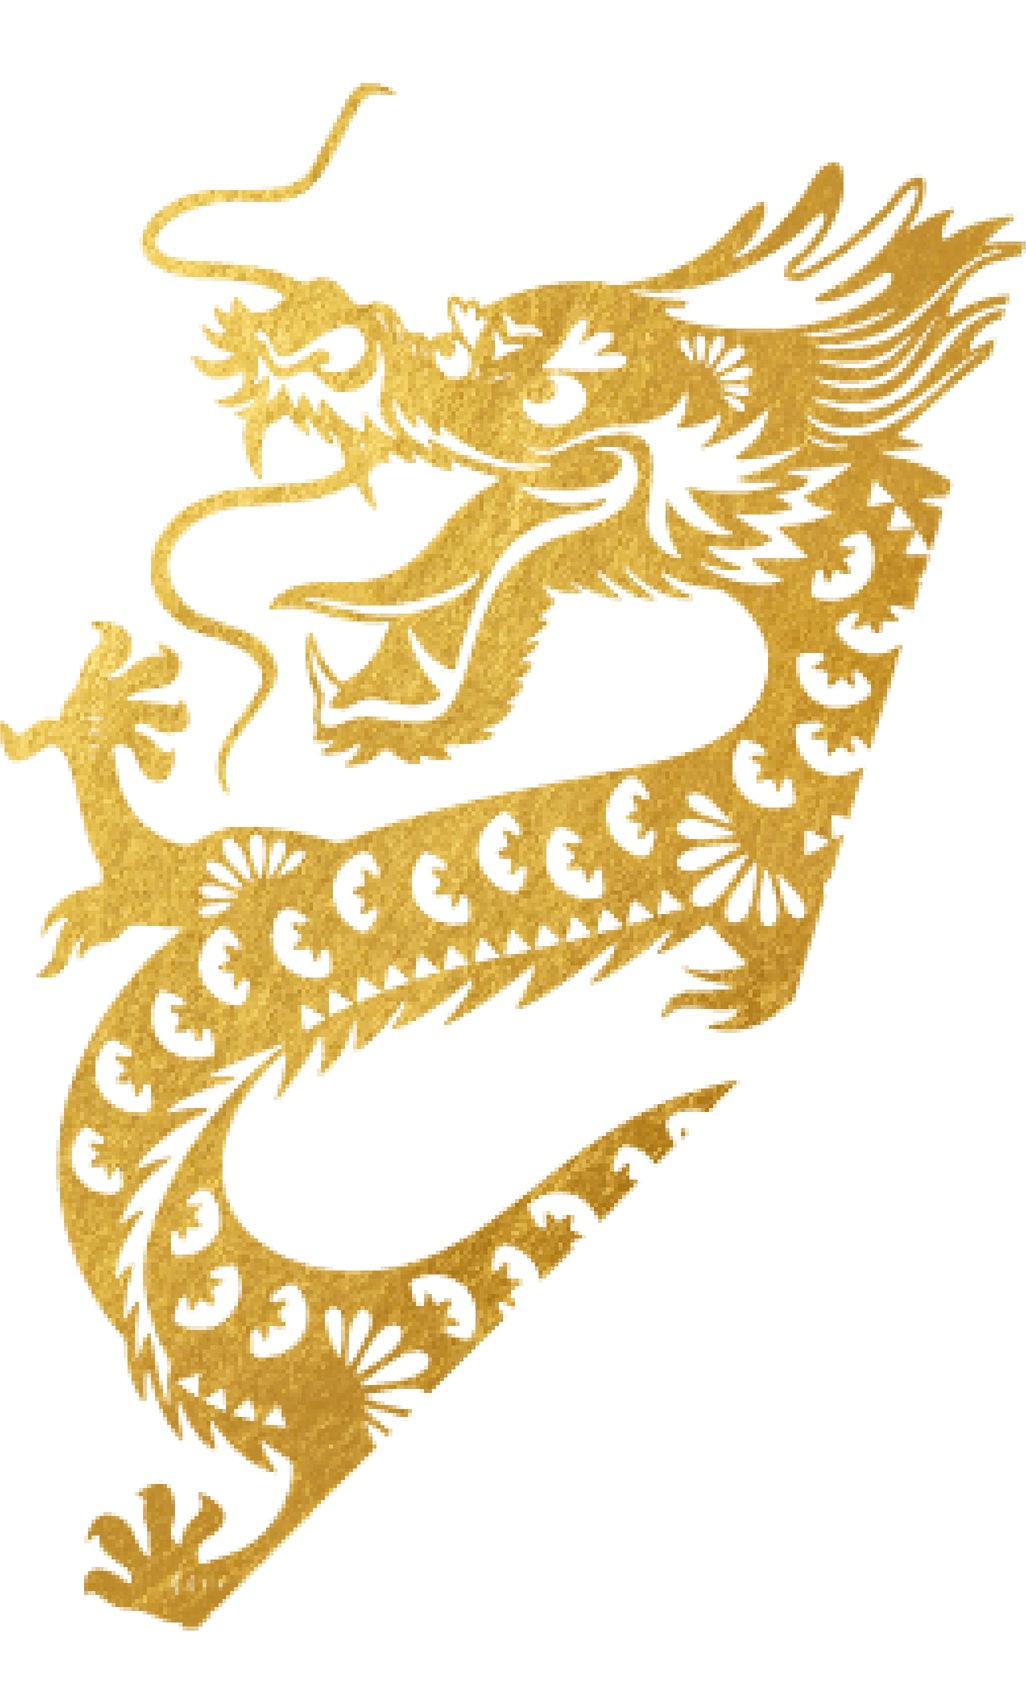
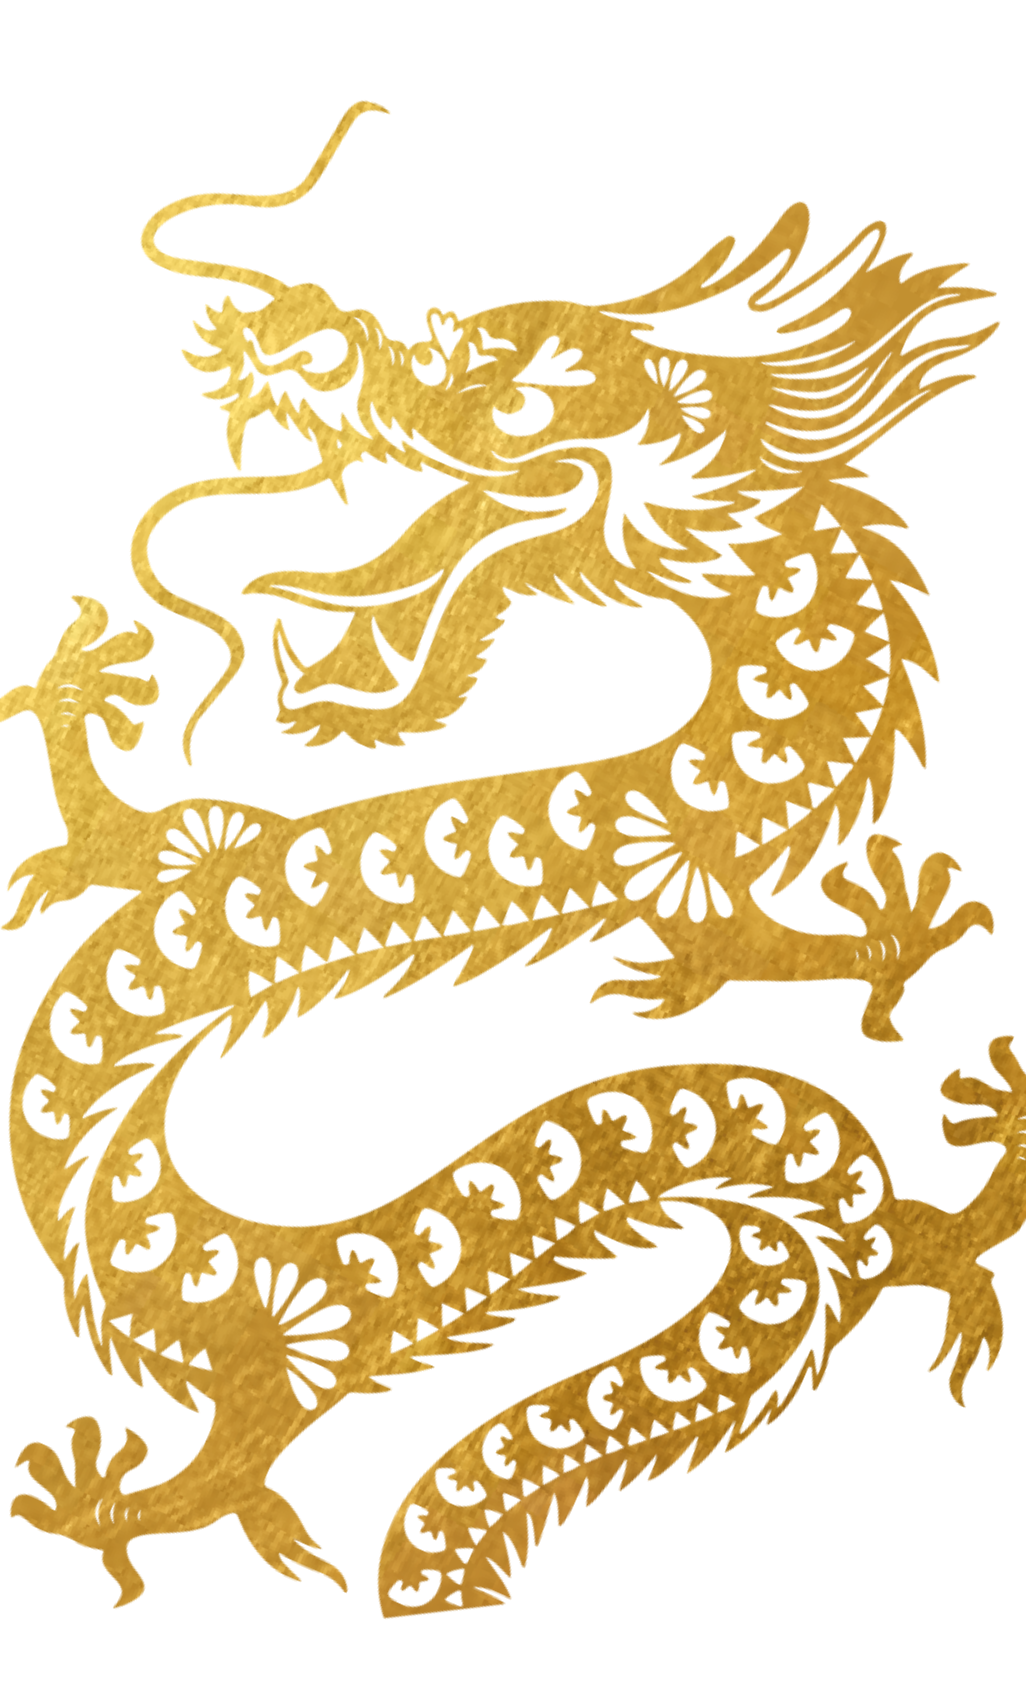
[modify] change dragon

diff --git a/docs/sw.js b/docs/sw.js
@@ -1,1 +1,1 @@
-if(!self.define){let e,i={};const a=(a,s)=>(a=new URL(a+".js",s).href,i[a]||new Promise((i=>{if("document"in self){const e=document.createElement("script");e.src=a,e.onload=i,document.head.appendChild(e)}else e=a,importScripts(a),i()})).then((()=>{let e=i[a];if(!e)throw new Error(`Module ${a} didn’t register its module`);return e})));self.define=(s,n)=>{const r=e||("document"in self?document.currentScript.src:"")||location.href;if(i[r])return;let c={};const d=e=>a(e,r),o={module:{uri:r},exports:c,require:d};i[r]=Promise.all(s.map((e=>o[e]||d(e)))).then((e=>(n(...e),c)))}}define(["./workbox-fa446783"],(function(e){"use strict";self.skipWaiting(),e.clientsClaim(),e.precacheAndRoute([{url:"assets/index-60319aa1.js",revision:null},{url:"assets/index-e0ca7d98.css",revision:null},{url:"index.html",revision:"6f0142afc46f0e07b2d3d71e171b2242"},{url:"registerSW.js",revision:"1872c500de691dce40960bb85481de07"},{url:"321.mp3",revision:"3bd591d610049c259f3768fd35f8ba0f"},{url:"audio-speaker-off.png",revision:"e46a88ab8493f86764cbe64dd250adf5"},{url:"audio-speaker-on.png",revision:"0f68480c86cd9569a7bd660ea0b1abb1"},{url:"bg.mp3",revision:"1939fe9c9d71e53d960f581d068bd9ed"},{url:"click.mp3",revision:"0549e1376c71663510db6425f2b10d4e"},{url:"pwa-logo.png",revision:"ecc5baf4ff30ede170fc950900658b74"},{url:"assets/img/12_14_finished.png",revision:"a870acbf48cc8d64d949abd03ab92052"},{url:"assets/img/ball_light.png",revision:"11ffa497bd4e6f5ba8789b584b464348"},{url:"assets/img/black_bg.png",revision:"2c019e9e6bccf9f989349f8b4902df4d"},{url:"assets/img/charm.png",revision:"7a59770e7caaa60af67a447a67f842f1"},{url:"assets/img/charm_bg.png",revision:"8cbacc76583d1c30f68951fdd04853a2"},{url:"assets/img/charm_shadow.png",revision:"86b80104720873d004d1647e19a723f3"},{url:"assets/img/dragon_right_big.png",revision:"ab83fd69d5b4f3120fda3eeabe7624b5"},{url:"assets/img/dragon_right_small.png",revision:"684a7760bf27b17b2f04fa6dcb6ebe5e"},{url:"assets/img/final_bg.png",revision:"407d758e0a49c25dd1c33995f34a4c5e"},{url:"assets/img/game_ball.png",revision:"deae6db0f7233ab3299a7c1adbca2372"},{url:"assets/img/game_ball_cloud.png",revision:"5c66e37a987089a9a03389eccf4bf39a"},{url:"assets/img/game_ball_infinite.png",revision:"eb7bb876bad1c0e7d6a8a3e12f31939e"},{url:"assets/img/game_ball_shadow.png",revision:"f14fabcca4dcf82a15e244795d04088c"},{url:"assets/img/game_ball_star.png",revision:"adc6fa1f181f27739f247749d7174809"},{url:"assets/img/game_ball_wind.png",revision:"cc1724b3a3a0015b55884a11a5a0156b"},{url:"assets/img/game_bg.png",revision:"266fa85d2f8a6e8577a09583253ad348"},{url:"assets/img/game_count_down_1.png",revision:"f859b94ffa931eb4905349206055dc31"},{url:"assets/img/game_count_down_2.png",revision:"4fd6d3c6a62e7bfd9ae5c13058d5c640"},{url:"assets/img/game_count_down_3.png",revision:"f5cea6cd0ee93bd623e5185a77307eda"},{url:"assets/img/game_frame.png",revision:"d4c0c7479a3e64ad69362b318e416d94"},{url:"assets/img/game_header.png",revision:"28bfb3ca5717aa08a1f29a76af22f076"},{url:"assets/img/game_intro_bg.png",revision:"1cc102c7f1f418e3e3d1d65a71c6ade2"},{url:"assets/img/ground.png",revision:"3d676879acc881ff0c9f6a341cfcd5a8"},{url:"assets/img/index_title.png",revision:"b46a6cd97f431cc5642c1f8f71c2bd1a"},{url:"assets/img/intro_2_main.png",revision:"2b25254eb89d6118aefe39fd1d9f570f"},{url:"assets/img/intro_2_title.png",revision:"e5a29516eb7efd52bb9f2b3145807ed2"},{url:"assets/img/left_down_cloud.png",revision:"ea9a97fd0861b55bfc00664f990103a4"},{url:"assets/img/logo.png",revision:"5ea8c0e167ad97e21d6dd32295f53a2a"},{url:"assets/img/logo_left_top.png",revision:"5105f4b42da1e5adb9f9ba970a388788"},{url:"assets/img/main_product_full.png",revision:"f9c457d9e6534de2df7f7a8f104045ba"},{url:"assets/img/right_belt_slogan.png",revision:"2e2d8f48c4ab5a5ae8df706fb001f499"},{url:"assets/img/right_down_belt_without_slogan.png",revision:"162d7093e3735f6eb114ea09f10d1169"},{url:"assets/img/right_top_play_button.png",revision:"1d8f6b2392822e67f1ed8721a7282989"},{url:"assets/img/side_dragon.png",revision:"8a5c14fc23b1c3e5de418f4cbfeaa7ec"},{url:"assets/img/wave_ground.png",revision:"2e6c8f7ec31b53c681ae5e4fb721f08f"},{url:"assets/img/woman.png",revision:"7a0e3bb88a54e81e1091a5b846b8bf45"},{url:"assets/img/yellow_bg.png",revision:"9aee5a12e6b5cdd2dacf847ac39b736f"},{url:"img/icons/android-chrome-192x192.png",revision:"3ef4a95391ff2bfd5f442ea89292b3fa"},{url:"img/icons/android-chrome-512x512.png",revision:"4fd10861636b509a53d091e1c6cd8f64"},{url:"img/icons/android-chrome-maskable-192x192.png",revision:"3ef4a95391ff2bfd5f442ea89292b3fa"},{url:"img/icons/android-chrome-maskable-512x512.png",revision:"4fd10861636b509a53d091e1c6cd8f64"},{url:"img/icons/apple-touch-icon-120x120.png",revision:"c24de0bfa43e42fd8568d1b38262c4c3"},{url:"img/icons/apple-touch-icon-152x152.png",revision:"de8e6c5c1e047c79711200a9529be00e"},{url:"img/icons/apple-touch-icon-180x180.png",revision:"f66b5015d880335cb607d474025316e8"},{url:"img/icons/apple-touch-icon-60x60.png",revision:"91035985e360cd3b9e443066bccdc53a"},{url:"img/icons/apple-touch-icon-76x76.png",revision:"c14d8293625bbec500e0e9dec5848336"},{url:"img/icons/apple-touch-icon.png",revision:"f66b5015d880335cb607d474025316e8"},{url:"img/icons/favicon-16x16.png",revision:"49610a9d0e3026ebfaec1aa32f22b67f"},{url:"img/icons/favicon-32x32.png",revision:"e3c7c3355821030a05ac1e54e105e973"},{url:"img/icons/msapplication-icon-144x144.png",revision:"4db12ddb2969ae559fe8cc63810e7747"},{url:"img/icons/mstile-150x150.png",revision:"8bf70c634505b233c8b293cf3a749278"},{url:"img/icons/safari-pinned-tab.svg",revision:"86b564b18ea6c7e170fa6cb87ca03bcf"},{url:"manifest.webmanifest",revision:"57439dbce5a2c575d7bbf99676e164bf"}],{}),e.cleanupOutdatedCaches(),e.registerRoute(new e.NavigationRoute(e.createHandlerBoundToURL("index.html")))}));
+if(!self.define){let e,i={};const a=(a,s)=>(a=new URL(a+".js",s).href,i[a]||new Promise((i=>{if("document"in self){const e=document.createElement("script");e.src=a,e.onload=i,document.head.appendChild(e)}else e=a,importScripts(a),i()})).then((()=>{let e=i[a];if(!e)throw new Error(`Module ${a} didn’t register its module`);return e})));self.define=(s,n)=>{const r=e||("document"in self?document.currentScript.src:"")||location.href;if(i[r])return;let c={};const d=e=>a(e,r),o={module:{uri:r},exports:c,require:d};i[r]=Promise.all(s.map((e=>o[e]||d(e)))).then((e=>(n(...e),c)))}}define(["./workbox-fa446783"],(function(e){"use strict";self.skipWaiting(),e.clientsClaim(),e.precacheAndRoute([{url:"assets/index-60319aa1.js",revision:null},{url:"assets/index-e0ca7d98.css",revision:null},{url:"index.html",revision:"6f0142afc46f0e07b2d3d71e171b2242"},{url:"registerSW.js",revision:"1872c500de691dce40960bb85481de07"},{url:"321.mp3",revision:"3bd591d610049c259f3768fd35f8ba0f"},{url:"audio-speaker-off.png",revision:"e46a88ab8493f86764cbe64dd250adf5"},{url:"audio-speaker-on.png",revision:"0f68480c86cd9569a7bd660ea0b1abb1"},{url:"bg.mp3",revision:"1939fe9c9d71e53d960f581d068bd9ed"},{url:"click.mp3",revision:"0549e1376c71663510db6425f2b10d4e"},{url:"pwa-logo.png",revision:"ecc5baf4ff30ede170fc950900658b74"},{url:"assets/img/12_14_finished.png",revision:"a870acbf48cc8d64d949abd03ab92052"},{url:"assets/img/ball_light.png",revision:"11ffa497bd4e6f5ba8789b584b464348"},{url:"assets/img/black_bg.png",revision:"2c019e9e6bccf9f989349f8b4902df4d"},{url:"assets/img/charm.png",revision:"7a59770e7caaa60af67a447a67f842f1"},{url:"assets/img/charm_bg.png",revision:"8cbacc76583d1c30f68951fdd04853a2"},{url:"assets/img/charm_shadow.png",revision:"86b80104720873d004d1647e19a723f3"},{url:"assets/img/dragon_right_big.png",revision:"ab83fd69d5b4f3120fda3eeabe7624b5"},{url:"assets/img/dragon_right_small.png",revision:"acc29d34cb6eb0c8304c863ed0e6e329"},{url:"assets/img/final_bg.png",revision:"407d758e0a49c25dd1c33995f34a4c5e"},{url:"assets/img/game_ball.png",revision:"deae6db0f7233ab3299a7c1adbca2372"},{url:"assets/img/game_ball_cloud.png",revision:"5c66e37a987089a9a03389eccf4bf39a"},{url:"assets/img/game_ball_infinite.png",revision:"eb7bb876bad1c0e7d6a8a3e12f31939e"},{url:"assets/img/game_ball_shadow.png",revision:"f14fabcca4dcf82a15e244795d04088c"},{url:"assets/img/game_ball_star.png",revision:"adc6fa1f181f27739f247749d7174809"},{url:"assets/img/game_ball_wind.png",revision:"cc1724b3a3a0015b55884a11a5a0156b"},{url:"assets/img/game_bg.png",revision:"266fa85d2f8a6e8577a09583253ad348"},{url:"assets/img/game_count_down_1.png",revision:"f859b94ffa931eb4905349206055dc31"},{url:"assets/img/game_count_down_2.png",revision:"4fd6d3c6a62e7bfd9ae5c13058d5c640"},{url:"assets/img/game_count_down_3.png",revision:"f5cea6cd0ee93bd623e5185a77307eda"},{url:"assets/img/game_frame.png",revision:"d4c0c7479a3e64ad69362b318e416d94"},{url:"assets/img/game_header.png",revision:"28bfb3ca5717aa08a1f29a76af22f076"},{url:"assets/img/game_intro_bg.png",revision:"1cc102c7f1f418e3e3d1d65a71c6ade2"},{url:"assets/img/ground.png",revision:"3d676879acc881ff0c9f6a341cfcd5a8"},{url:"assets/img/index_title.png",revision:"b46a6cd97f431cc5642c1f8f71c2bd1a"},{url:"assets/img/intro_2_main.png",revision:"2b25254eb89d6118aefe39fd1d9f570f"},{url:"assets/img/intro_2_title.png",revision:"e5a29516eb7efd52bb9f2b3145807ed2"},{url:"assets/img/left_down_cloud.png",revision:"ea9a97fd0861b55bfc00664f990103a4"},{url:"assets/img/logo.png",revision:"5ea8c0e167ad97e21d6dd32295f53a2a"},{url:"assets/img/logo_left_top.png",revision:"5105f4b42da1e5adb9f9ba970a388788"},{url:"assets/img/main_product_full.png",revision:"f9c457d9e6534de2df7f7a8f104045ba"},{url:"assets/img/right_belt_slogan.png",revision:"2e2d8f48c4ab5a5ae8df706fb001f499"},{url:"assets/img/right_down_belt_without_slogan.png",revision:"162d7093e3735f6eb114ea09f10d1169"},{url:"assets/img/right_top_play_button.png",revision:"1d8f6b2392822e67f1ed8721a7282989"},{url:"assets/img/side_dragon.png",revision:"8a5c14fc23b1c3e5de418f4cbfeaa7ec"},{url:"assets/img/wave_ground.png",revision:"2e6c8f7ec31b53c681ae5e4fb721f08f"},{url:"assets/img/woman.png",revision:"7a0e3bb88a54e81e1091a5b846b8bf45"},{url:"assets/img/yellow_bg.png",revision:"9aee5a12e6b5cdd2dacf847ac39b736f"},{url:"img/icons/android-chrome-192x192.png",revision:"3ef4a95391ff2bfd5f442ea89292b3fa"},{url:"img/icons/android-chrome-512x512.png",revision:"4fd10861636b509a53d091e1c6cd8f64"},{url:"img/icons/android-chrome-maskable-192x192.png",revision:"3ef4a95391ff2bfd5f442ea89292b3fa"},{url:"img/icons/android-chrome-maskable-512x512.png",revision:"4fd10861636b509a53d091e1c6cd8f64"},{url:"img/icons/apple-touch-icon-120x120.png",revision:"c24de0bfa43e42fd8568d1b38262c4c3"},{url:"img/icons/apple-touch-icon-152x152.png",revision:"de8e6c5c1e047c79711200a9529be00e"},{url:"img/icons/apple-touch-icon-180x180.png",revision:"f66b5015d880335cb607d474025316e8"},{url:"img/icons/apple-touch-icon-60x60.png",revision:"91035985e360cd3b9e443066bccdc53a"},{url:"img/icons/apple-touch-icon-76x76.png",revision:"c14d8293625bbec500e0e9dec5848336"},{url:"img/icons/apple-touch-icon.png",revision:"f66b5015d880335cb607d474025316e8"},{url:"img/icons/favicon-16x16.png",revision:"49610a9d0e3026ebfaec1aa32f22b67f"},{url:"img/icons/favicon-32x32.png",revision:"e3c7c3355821030a05ac1e54e105e973"},{url:"img/icons/msapplication-icon-144x144.png",revision:"4db12ddb2969ae559fe8cc63810e7747"},{url:"img/icons/mstile-150x150.png",revision:"8bf70c634505b233c8b293cf3a749278"},{url:"img/icons/safari-pinned-tab.svg",revision:"86b564b18ea6c7e170fa6cb87ca03bcf"},{url:"manifest.webmanifest",revision:"57439dbce5a2c575d7bbf99676e164bf"}],{}),e.cleanupOutdatedCaches(),e.registerRoute(new e.NavigationRoute(e.createHandlerBoundToURL("index.html")))}));
